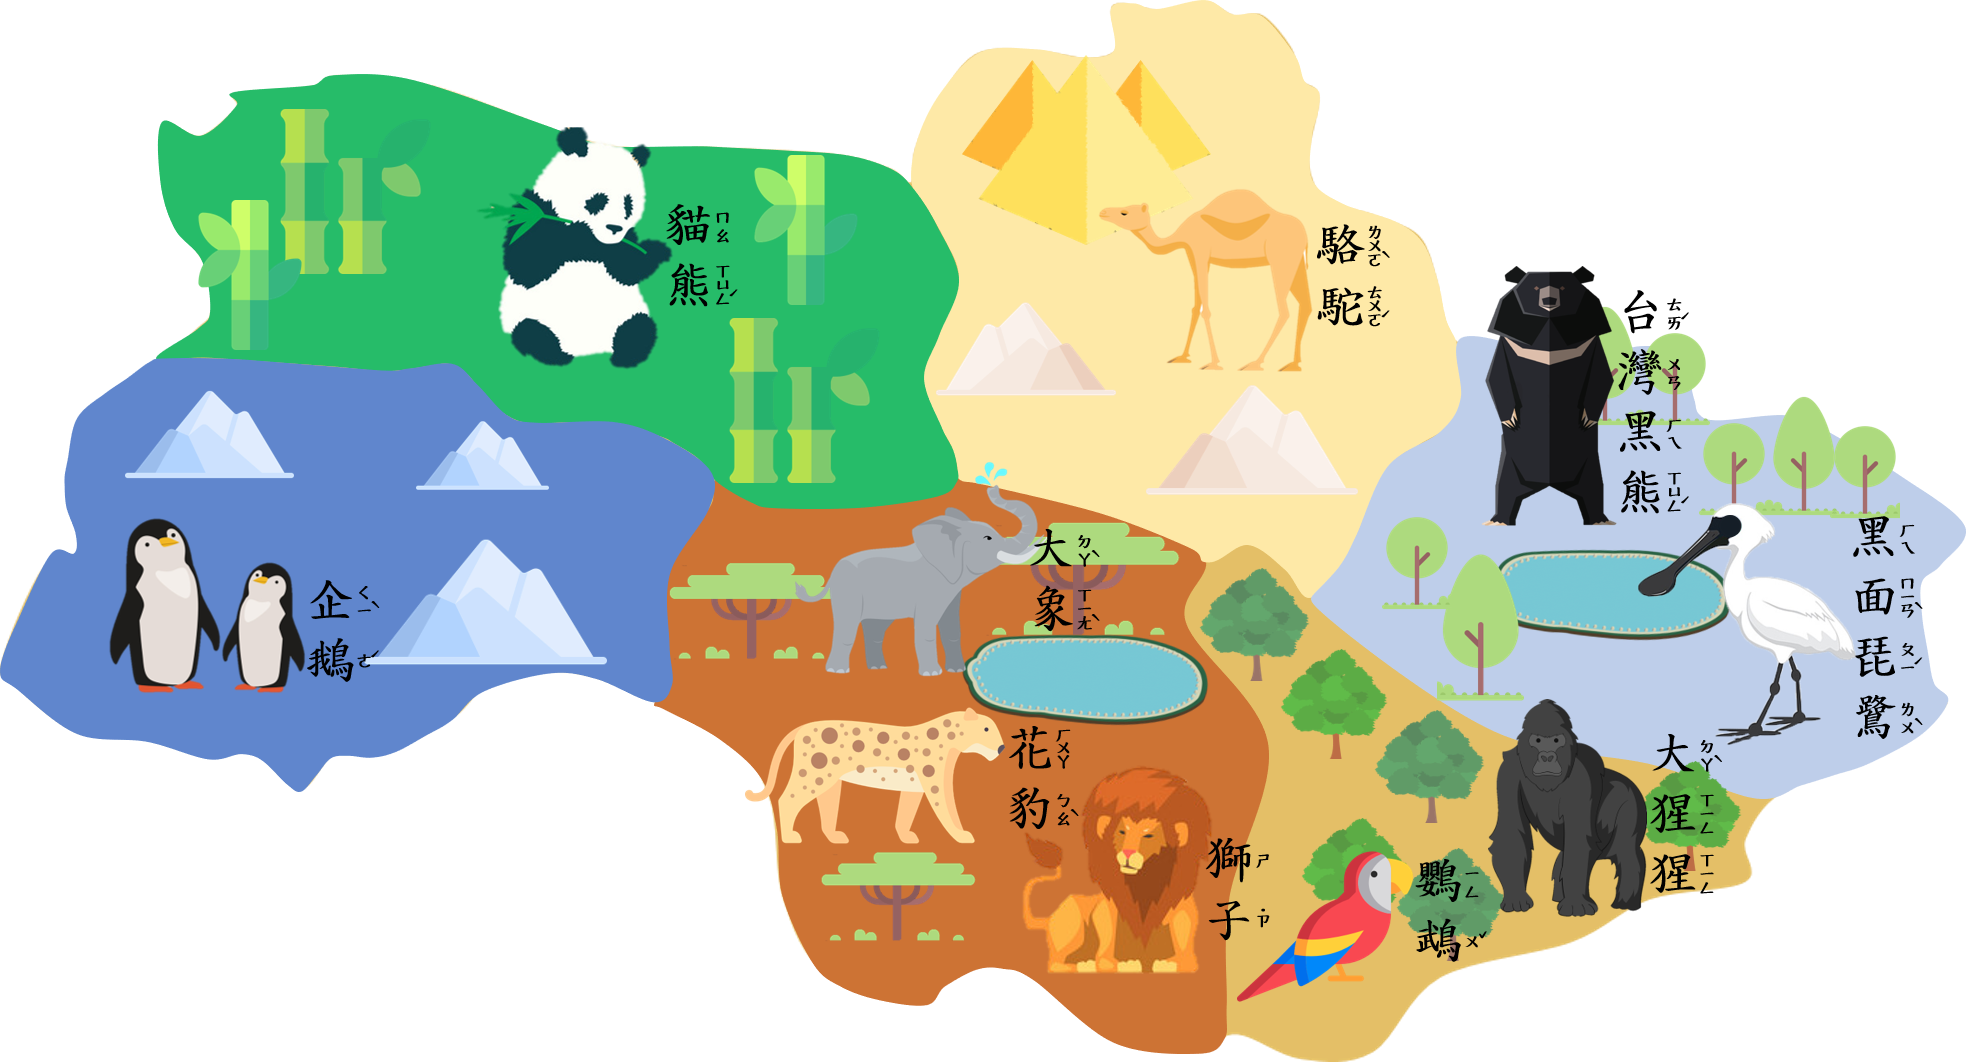
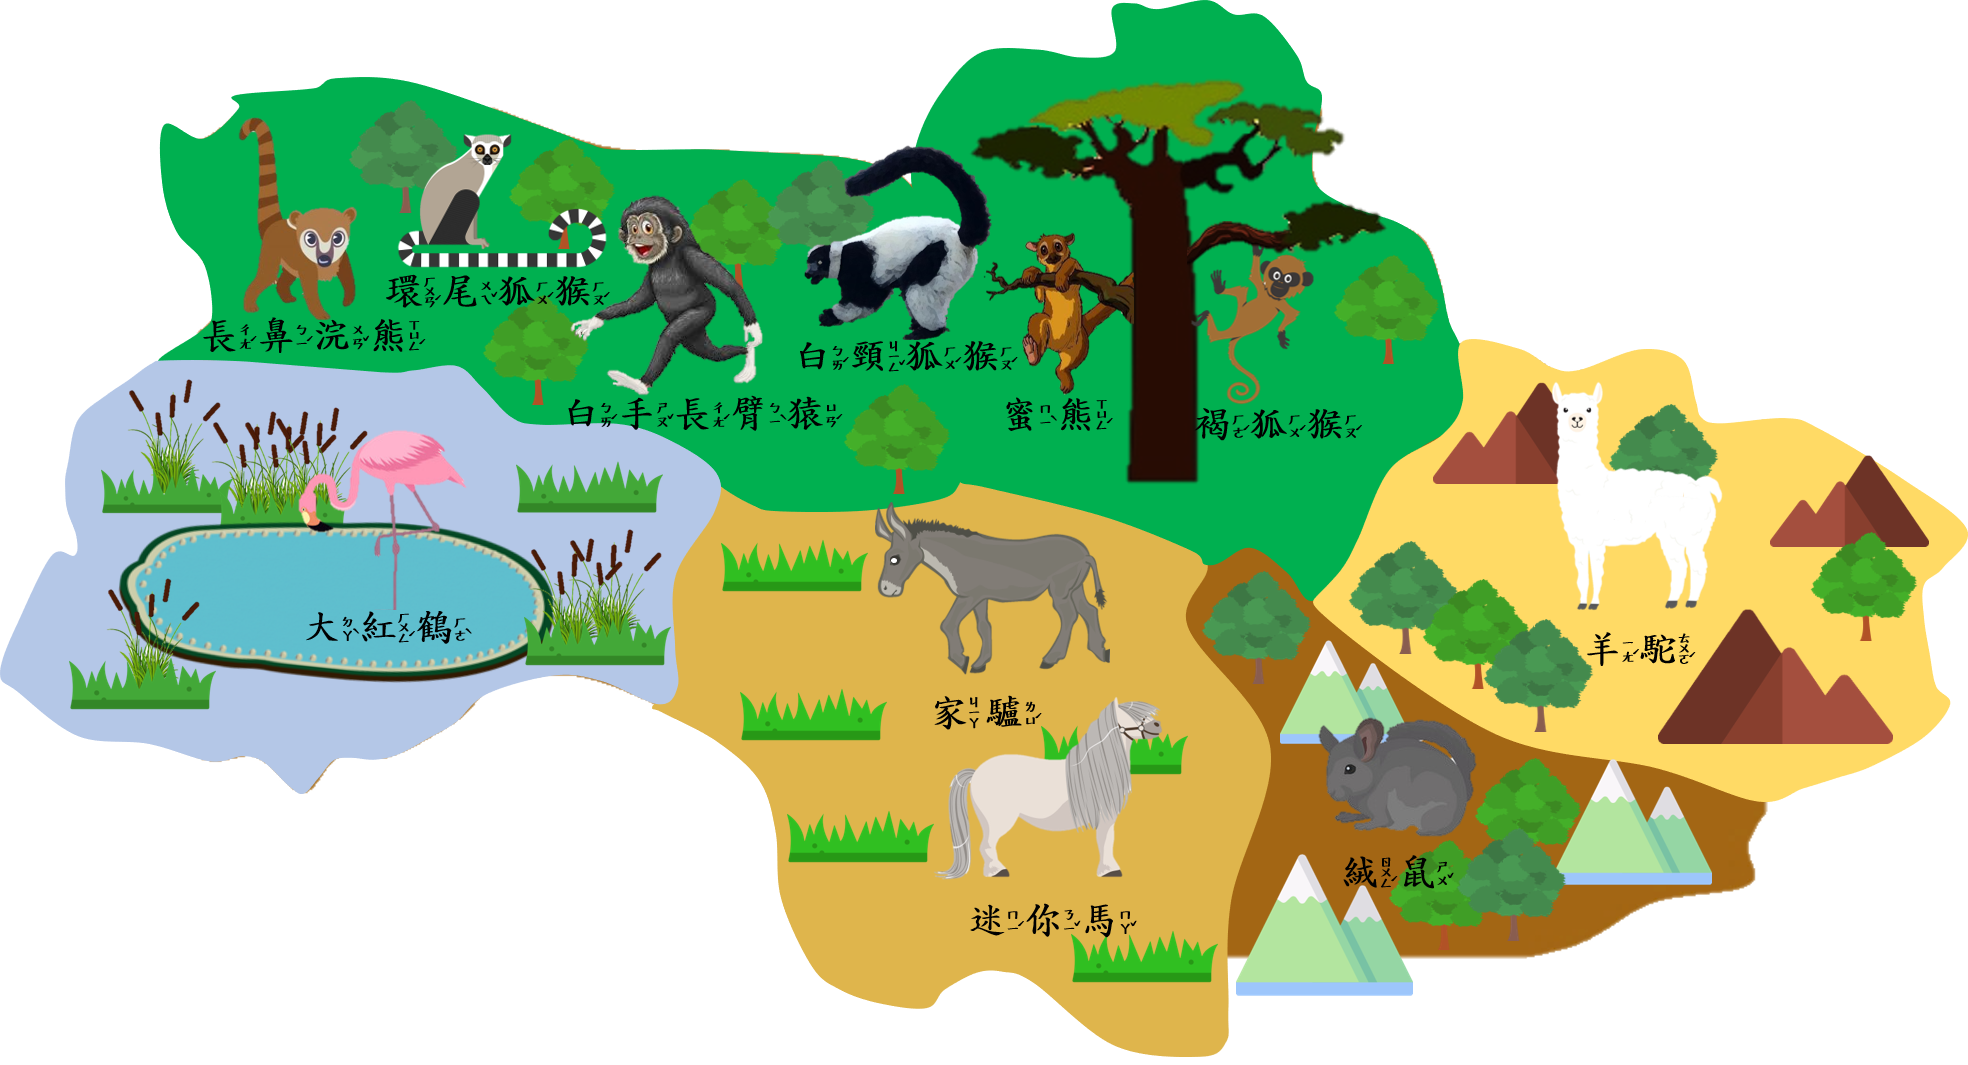
change animal map and taiwan map

diff --git a/magicBook/animalbook.html b/magicBook/animalbook.html
@@ -58,34 +58,37 @@
       <img class="mapsize" src="../image/map/animal_map.png" >
   </div>
   <div>
-    <img class="panda" src="../image/animal/panda.png" onclick="mouseDownText('大貓熊');">
+    <img class="South_American_Coati" src="../image/animal/South_American_Coati.png" onclick="mouseDownText('長鼻浣熊');">
   </div>
   <div>
-    <img class="penguin" src="../image/animal/penguin.png" onclick="mouseDownText('企鵝');">
+    <img class="Ring_tailed_Lemur" src="../image/animal/Ring_tailed_Lemur.png" onclick="mouseDownText('環尾狐猴');">
   </div>
   <div>
-    <img class="camel" src="../image/animal/camel.png" onclick="mouseDownText('駱駝');">
+    <img class="White_handed_Gibbon" src="../image/animal/White_handed_Gibbon.png" onclick="mouseDownText('白手長臂猿');">
   </div>
   <div>
-    <img class="elephant" src="../image/animal/elephant.png" onclick="mouseDownText('大象');">
+    <img class="Black_and_white_ruffed_Lemur" src="../image/animal/Black_and_white_ruffed_Lemur.png" onclick="mouseDownText('白頸狐猴');">
   </div>
   <div>
-    <img class="lion" src="../image/animal/lion.png" onclick="mouseDownText('獅子');">
+    <img class="Kinkajou" src="../image/animal/Kinkajou.png" onclick="mouseDownText('蜜熊');">
   </div>
   <div>
-    <img class="leopard" src="../image/animal/leopard.png" onclick="mouseDownText('花豹');">
+    <img class="Brown_Lemur" src="../image/animal/Brown_Lemur.png" onclick="mouseDownText('褐狐猴');">
   </div>
   <div>
-    <img class="bear" src="../image/animal/taiwan_bear.png" onclick="mouseDownText('台灣黑熊');">
+    <img class="Alpaca" src="../image/animal/Alpaca.png" onclick="mouseDownText('羊駝');">
   </div>
   <div>
-    <img class="spoonbill" src="../image/animal/black_faced_spoonbill.png" onclick="mouseDownText('黑面琵鷺');">
+    <img class="Greater_Flamingo" src="../image/animal/Greater_Flamingo.png" onclick="mouseDownText('大紅鶴');">
   </div>
   <div>
-    <img class="parrot" src="../image/animal/parrot.png" onclick="mouseDownText('鸚鵡');">
+    <img class="Donkey" src="../image/animal/Donkey.png" onclick="mouseDownText('家驢');">
   </div>
   <div>
-    <img class="gorilla" src="../image/animal/gorilla.png" onclick="mouseDownText('大猩猩');">
+    <img class="Pony" src="../image/animal/Pony.png" onclick="mouseDownText('迷你馬');">
+  </div>
+  <div>
+    <img class="Chinchilla" src="../image/animal/Chinchilla.png" onclick="mouseDownText('絨鼠');">
   </div>
   <div>
     <a href="../../test1.html" class="sosfloat" id="menu-share">

diff --git a/view/level/northRegion.html b/view/level/northRegion.html
@@ -11,58 +11,58 @@
     <link rel="stylesheet" href="../../CSS/map/counties.css">
     <style>
         .terrain {
-            height: 280px;
+            height: 350px;
             margin-top: 20px;
             position: relative;
             z-index: 1;
-            margin-right: -60px;
+            right: -40px;
         }
         
         .keelung {
             position: absolute;
-            top: 51px;
-            left: 219px;
-            width: 54px;
-            z-index: 25
+            top: 57px;
+            left: 310px;
+            width: 72px;
+            z-index: 25;
         }
         
         .taipei {
             position: absolute;
-            top: 48px;
-            left: 168px;
-            width: 55px;
+            top: 54px;
+            left: 251px;
+            width: 71px;
             z-index: 15;
         }
         
         .newTaipei {
             position: absolute;
-            top: 20px;
-            left: 119px;
-            width: 203px;
+            top: 19px;
+            left: 187px;
+            width: 256px;
             z-index: 10;
         }
         
         .taoyuan {
             position: absolute;
-            top: 73px;
-            left: 34px;
-            width: 142px;
+            top: 86px;
+            left: 82px;
+            width: 176px;
             z-index: 10;
         }
         
         .hsinchu {
             position: absolute;
-            bottom: 29px;
-            left: 0px;
-            width: 160px;
+            bottom: 36px;
+            left: 40px;
+            width: 200px;
             z-index: 8;
         }
         
         .yilan {
             position: absolute;
             bottom: 5px;
-            left: 136px;
-            width: 167px;
+            left: 210px;
+            width: 208px;
             z-index: 5;
         }
     </style>

diff --git a/CSS/game/animal_book.css b/CSS/game/animal_book.css
@@ -29,75 +29,83 @@ body {
     margin-left: 22px;
 }
 
-.panda {
+.South_American_Coati {
     position: absolute;
-    top: 101px;
-    left: 198px;
-    width: 86px;
+    top: 98px;
+    left: 109px;
+    width: 52px;
 }
 
-.penguin {
+.Ring_tailed_Lemur {
     position: absolute;
-    top: 244px;
-    left: 61px;
+    top: 96.5px;
+    left: 167px;
+    width: 92px;
+}
+
+.White_handed_Gibbon {
+    position: absolute;
+    top: 123px;
+    left: 230px;
+    width: 92px;
+}
+
+.Black_and_white_ruffed_Lemur {
+    position: absolute;
+    top: 106px;
+    left: 325px;
     width: 80px;
 }
 
-.camel {
+.Kinkajou {
     position: absolute;
-    top: 99px;
-    left: 418px;
-    width: 122px;
+    top: 134px;
+    left: 393px;
+    width: 58px;
 }
 
-.elephant {
+.Brown_Lemur {
     position: absolute;
-    top: 220px;
-    left: 320px;
-    width: 102px;
+    top: 126px;
+    left: 472px;
+    width: 78px;
 }
 
-.lion {
+.Alpaca {
     position: absolute;
-    top: 337px;
-    left: 398px;
-    width: 95px;
+    top: 199px;
+    left: 605px;
+    width: 72px;
 }
 
-.leopard {
+.Greater_Flamingo {
     position: absolute;
-    top: 299px;
-    left: 305px;
-    width: 98px;
+    top: 209px;
+    left: 125px;
+    width: 79px;
 }
 
-.bear {
+.Donkey {
     position: absolute;
-    top: 155px;
-    left: 577px;
-    width: 65px;
+    top: 243px;
+    left: 353px;
+    width: 90px;
 }
 
-.spoonbill {
+.Pony {
     position: absolute;
-    top: 245px;
-    left: 641px;
-    width: 88px;
+    top: 290px;
+    left: 357px;
+    width: 123px;
 }
 
-.parrot {
+.Chinchilla {
     position: absolute;
-    top: 373px;
-    left: 492px;
-    width: 65px;
+    top: 303px;
+    left: 509px;
+    width: 85px;
 }
 
-.gorilla {
-    position: absolute;
-    top: 318px;
-    left: 586px;
-    width: 61px;
-}
 
 #explain_page {
     position: absolute;

diff --git a/CSS/map/taipei.css b/CSS/map/taipei.css
@@ -12,10 +12,11 @@ body{
   height: 700px;
 }
 .terrain{
-  width: 700px;
-position: relative;
-top: 70px;
-z-index: 1;
+  width: 325px;
+  position: relative;
+  top: 20px;
+  z-index: 1;
+  margin-right: -45px;
 }
 
 .level1{

diff --git a/view/level/taiwan.html b/view/level/taiwan.html
@@ -57,7 +57,7 @@
         .west{
             position: absolute;
             top: 77px;
-            left: 3px;
+            left: 3px; 
             width: 172px;
             z-index: 1;
         }

diff --git a/CSS/map/counties.css b/CSS/map/counties.css
@@ -1,8 +1,8 @@
 .features {
-    margin-top: 33px;
+    margin-top: 55px;
     background-color: aliceblue;
-    width: 340px;
-    height: 400px;
+    width: 255px;
+    height: 350px;
     
 }
 

diff --git a/CSS/map/keelung.css b/CSS/map/keelung.css
@@ -10,6 +10,7 @@ body{
   text-align: center;
   position: relative;
   height: 700px;
+  right: -40px;
 }
 .terrain{
   width: 325px;
